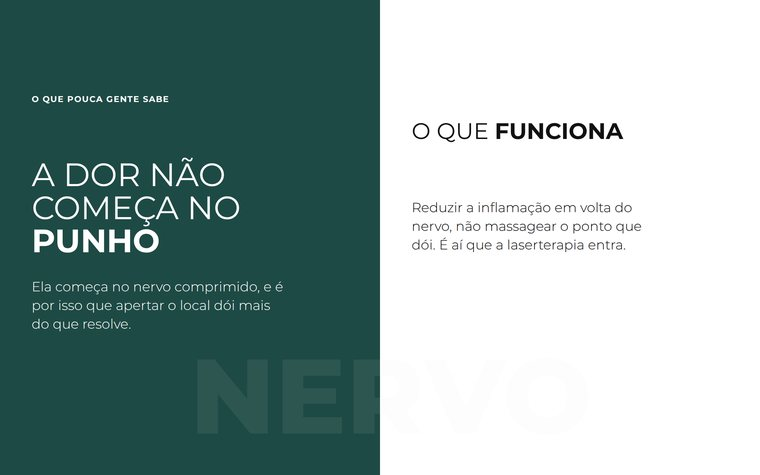
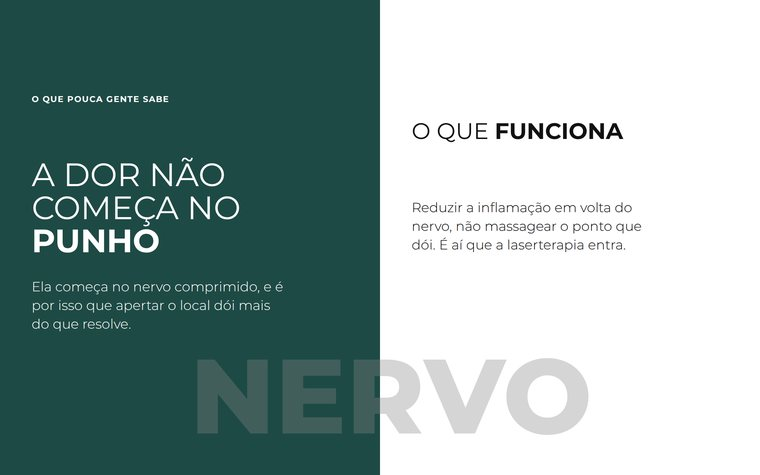
fantasma que atravessa a emenda vira um PAR sobreposto
Feedback do Gustavo: a palavra de fundo aparecia cortada ao meio, porque some no
lado branco. Ele propos dois elementos iguais sobrepostos, o de tras claro sobre
a cor da marca, ambos em opacidade baixa. E o que foi feito.

Causa medida: as regras de cor da fantasma sao section.slide[data-invert]
.ds-watermark, e a palavra que atravessa vive na .fita-layer — FORA de qualquer
section. Nenhuma das duas a alcancava, entao ela ficava no --wm base (#F0F0F0) e
sumia no branco. O token wm-invert existia no pack.json sem nenhuma regra usando.

data-ghost-sobre=acento e branco a 10% (some no branco, aparece na cor);
data-ghost-sobre=claro e tinta a 9% (some na cor, aparece no branco).

O conversor lida bem — le getComputedStyle, entao os dois viram textboxes com
fill e opacity resolvidos, e a duplicacao da travessia entrega o par a cada
vizinho. Verificado no JSON: #FFFFFF a 0.10 e #111111 a 0.09 nos dois slides.

Aplicado so onde ha TROCA de fundo (capa-e-fechamento, destaque-na-marca,
estrutura). Nos outros quatro a travessia e entre slides brancos: o data-ghost
normal resolve e o par seria peso morto no JSON.

Changed region(s): [[0.4842, 0.7368, 0.7868, 0.9137]]

diff --git a/engine/design-system.css b/engine/design-system.css
@@ -119,6 +119,18 @@ section.slide > *:not(.ds-watermark) { position: relative; z-index: 1; }
 section.slide[data-invert] .ds-watermark[data-ghost] { color: var(--paper); }
 section.slide:not([data-invert]) .ds-watermark[data-ghost] { color: var(--ink); opacity: .09; }
 
+/* PAR DE FANTASMAS na travessia. As duas regras acima dependem de estar DENTRO
+   de uma section, e a palavra que atravessa a emenda vive na .fita-layer — fora
+   de qualquer slide. Sem alcance, ela ficava no --wm base e sumia justamente na
+   metade que cai no fundo claro: a palavra parecia cortada ao meio.
+   A saida e um PAR sobreposto, mesma grid-area, cada um visivel no seu fundo:
+   `data-ghost-sobre="acento"` clareia (some no branco, aparece na cor),
+   `data-ghost-sobre="claro"`  escurece (some na cor, aparece no branco).
+   Onde os dois se sobrepoem a soma continua sutil — 7% + 9% de tons opostos. */
+.ds-watermark[data-ghost-sobre] { z-index: 0; line-height: 1; white-space: nowrap; }
+.ds-watermark[data-ghost-sobre="acento"] { color: var(--paper); opacity: .10; }
+.ds-watermark[data-ghost-sobre="claro"]  { color: var(--ink);   opacity: .09; }
+
 /* tons (qualquer componente de texto) */
 [data-tone="ink"]    { color: var(--ink); }
 [data-tone="muted"]  { color: var(--muted); }

diff --git a/packs/laserpro-continuo/exemplos/ref-destaque-na-marca.html b/packs/laserpro-continuo/exemplos/ref-destaque-na-marca.html
@@ -50,7 +50,13 @@
   <!-- Fita de 2 = 24 colunas, emenda na 13. A fantasma atravessa a emenda e
        muda de cor no caminho — clara no slide de acento, escura no branco. -->
   <div class="fita-layer" data-split-ok>
-    <span class="ds-watermark" data-el-id="w1" data-static data-layer data-ghost
+    <span class="ds-watermark" data-el-id="w1aa" data-static data-layer data-ghost-sobre="acento"
+          style="grid-area: 9 / 7 / 13 / 19">NERVO</span>
+    <span class="ds-watermark" data-el-id="w1ab" data-static data-layer data-ghost-sobre="claro"
+          style="grid-area: 9 / 7 / 13 / 19">NERVO</span>
+    <span class="ds-watermark" data-el-id="w1ba" data-static data-layer data-ghost-sobre="acento"
+          style="grid-area: 9 / 7 / 13 / 19">NERVO</span>
+    <span class="ds-watermark" data-el-id="w1bb" data-static data-layer data-ghost-sobre="claro"
           style="grid-area: 9 / 7 / 13 / 19">NERVO</span>
   </div>
 

diff --git a/packs/laserpro-continuo/exemplos/ref-estrutura.html b/packs/laserpro-continuo/exemplos/ref-estrutura.html
@@ -116,7 +116,9 @@
        O aparelho (f2) atravessa o slide 4 de alto a baixo e cruza a emenda 49
        com a base caindo no canto do slide 5. -->
   <div class="fita-layer" data-split-ok>
-    <span class="ds-watermark" data-el-id="w1" data-static data-layer data-ghost
+    <span class="ds-watermark" data-el-id="w1a" data-static data-layer data-ghost-sobre="acento"
+          style="grid-area: 3 / 4 / 7 / 16">LASER</span>
+    <span class="ds-watermark" data-el-id="w1b" data-static data-layer data-ghost-sobre="claro"
           style="grid-area: 3 / 4 / 7 / 16">LASER</span>
     <img class="ds-photo" data-el-id="f1" data-static data-layer
          data-image-type="generated" src="foto-problema.png"

diff --git a/packs/laserpro-continuo/exemplos/ref-capa-e-fechamento.html b/packs/laserpro-continuo/exemplos/ref-capa-e-fechamento.html
@@ -55,7 +55,9 @@
   </section>
 
   <div class="fita-layer" data-split-ok>
-    <span class="ds-watermark" data-el-id="w1" data-static data-layer data-ghost
+    <span class="ds-watermark" data-el-id="w1a" data-static data-layer data-ghost-sobre="acento"
+          style="grid-area: 3 / 4 / 7 / 16">LASER</span>
+    <span class="ds-watermark" data-el-id="w1b" data-static data-layer data-ghost-sobre="claro"
           style="grid-area: 3 / 4 / 7 / 16">LASER</span>
     <span class="ds-watermark" data-el-id="w2" data-static data-layer data-ghost
           style="grid-area: 10 / 14 / 13 / 25">LASER</span>

diff --git a/packs/laserpro-continuo/tecnicas.md b/packs/laserpro-continuo/tecnicas.md
@@ -119,6 +119,36 @@ pack o cartão é `data-layer` e o texto é IRMÃO dele no grid, então a regra 
 alcança — sem `data-tone="paper"` explícito a copy sai escura sobre a cor da
 marca. Testado com marca azul: ilegível.
 
+## A fantasma que atravessa precisa ser um PAR
+
+Quando a palavra de fundo cruza uma emenda entre fundos DIFERENTES (o acento da
+capa para o branco do miolo), uma fantasma só não serve: ela é clara ou escura,
+e some na metade que cai no fundo de tom parecido. O leitor vê a palavra
+**cortada ao meio** — o oposto do efeito, que é justamente amarrar os dois slides.
+
+A saída são dois elementos na MESMA grid-area, um sobre o outro:
+
+    <span class="ds-watermark" ... data-ghost-sobre="acento" style="grid-area: 9 / 7 / 13 / 19">NERVO</span>
+    <span class="ds-watermark" ... data-ghost-sobre="claro"  style="grid-area: 9 / 7 / 13 / 19">NERVO</span>
+
+O de baixo (`acento`) é branco a 10%: some no fundo branco, aparece sobre a cor
+da marca. O de cima (`claro`) é tinta a 9%: some na cor, aparece no branco. Onde
+os dois se sobrepõem a soma continua sutil.
+
+**Só use o par quando há troca de fundo.** Numa travessia entre dois slides
+brancos o `data-ghost` normal resolve, e o par vira peso morto — dois objetos no
+JSON onde um basta.
+
+**Por que a regra normal não bastava:** as regras de cor da fantasma são
+`section.slide[data-invert] .ds-watermark`, e a palavra que atravessa vive na
+`.fita-layer`, fora de qualquer section. Nenhuma delas a alcançava, então ela
+ficava no `--wm` base e sumia no branco.
+
+**O conversor lida bem:** ele lê `getComputedStyle`, então os dois viram
+textboxes com `fill` e `opacity` já resolvidos, e a duplicação da travessia
+entrega o par a cada slide vizinho. Verificado no JSON emitido: `#FFFFFF` a 0.10
+e `#111111` a 0.09, nos dois slides.
+
 ## O que este pack resolve mal
 
 - **Passo a passo longo.** Não há numeração de série; a fita não sinaliza ordem.
